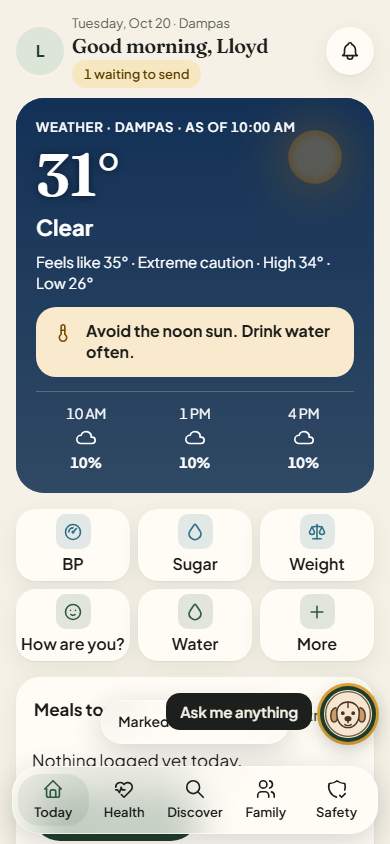
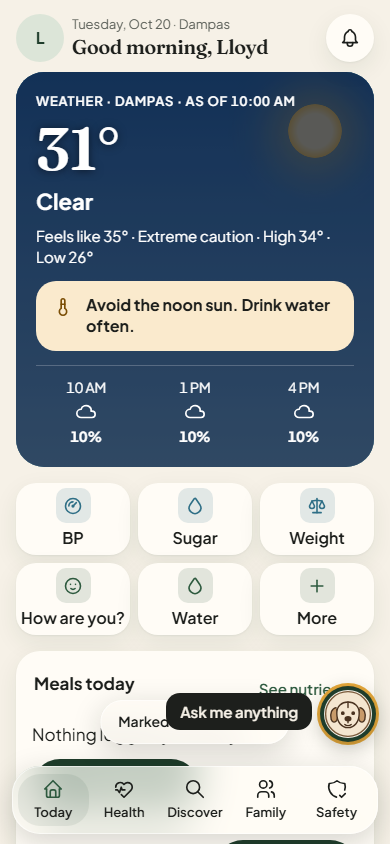
s13 T: shots hide the sync pill and bell dot (timing noise)

Changed region(s): [[0.0308, 0.0, 0.9846, 1.0], [0.5846, 0.9858, 0.8923, 1.0]]

diff --git a/e2e/s13-t-today.auth.spec.ts b/e2e/s13-t-today.auth.spec.ts
@@ -48,6 +48,8 @@ async function start(page: Page, scheme: 'light' | 'dark', o: { code?: number; d
   if (o.since) await seed(page, 'bantay', 'kv', [{ key: 'today.myweek.since', value: o.since }])
   if (o.dose || o.since) await page.reload() // raw IndexedDB writes do not notify live queries
   await expect(page.getByRole('group', { name: 'Quick log' })).toBeVisible()
+  // The mocked server never takes the app's own writes, so the sync pill and the bell dot come and go with timing; they are not what this lane shows.
+  await page.addStyleTag({ content: '.sync-status, .sh-badge { display: none !important; }' })
   await expect(page.getByRole('region', { name: 'Weather' })).toBeVisible() // the forecast answers after the first paint
   await expect(page.getByRole('heading', { name: 'Meals today' })).toBeVisible() // appears once sign-in finished: wait so a rerun draws the same page (ML-25, ML-32)
 }
